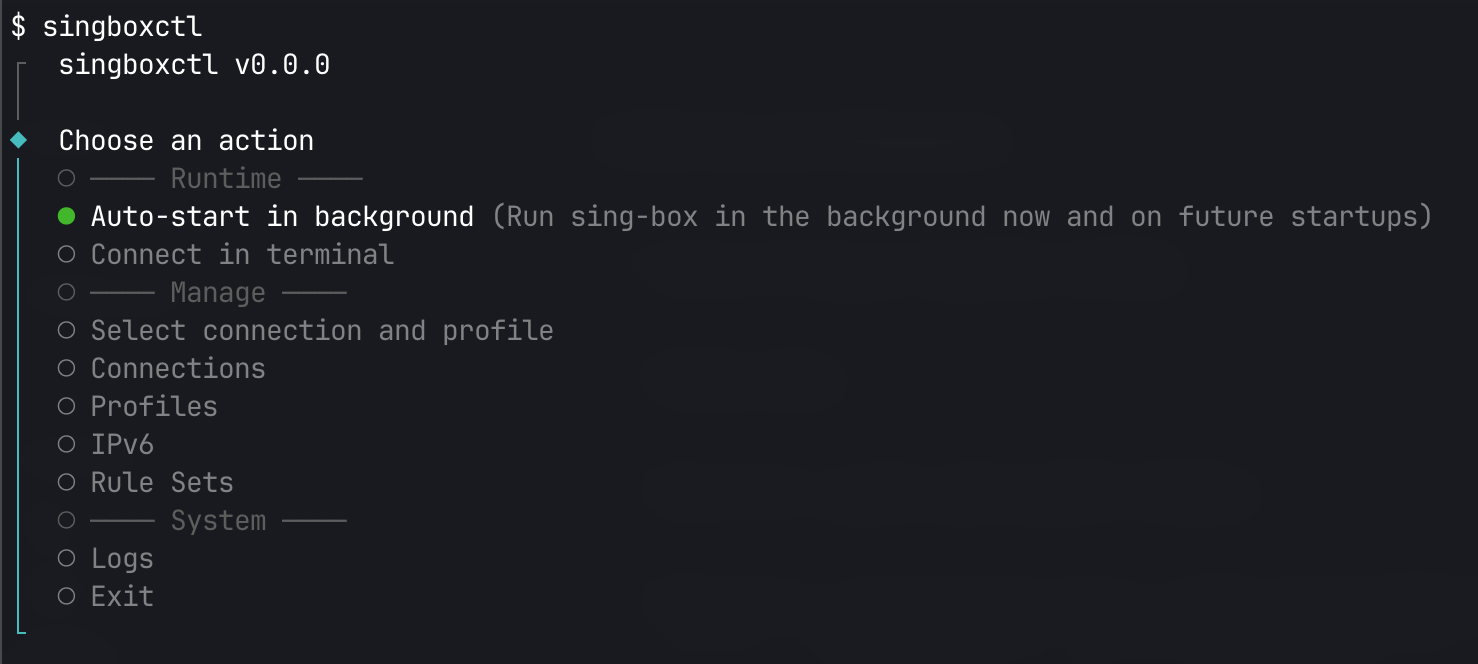
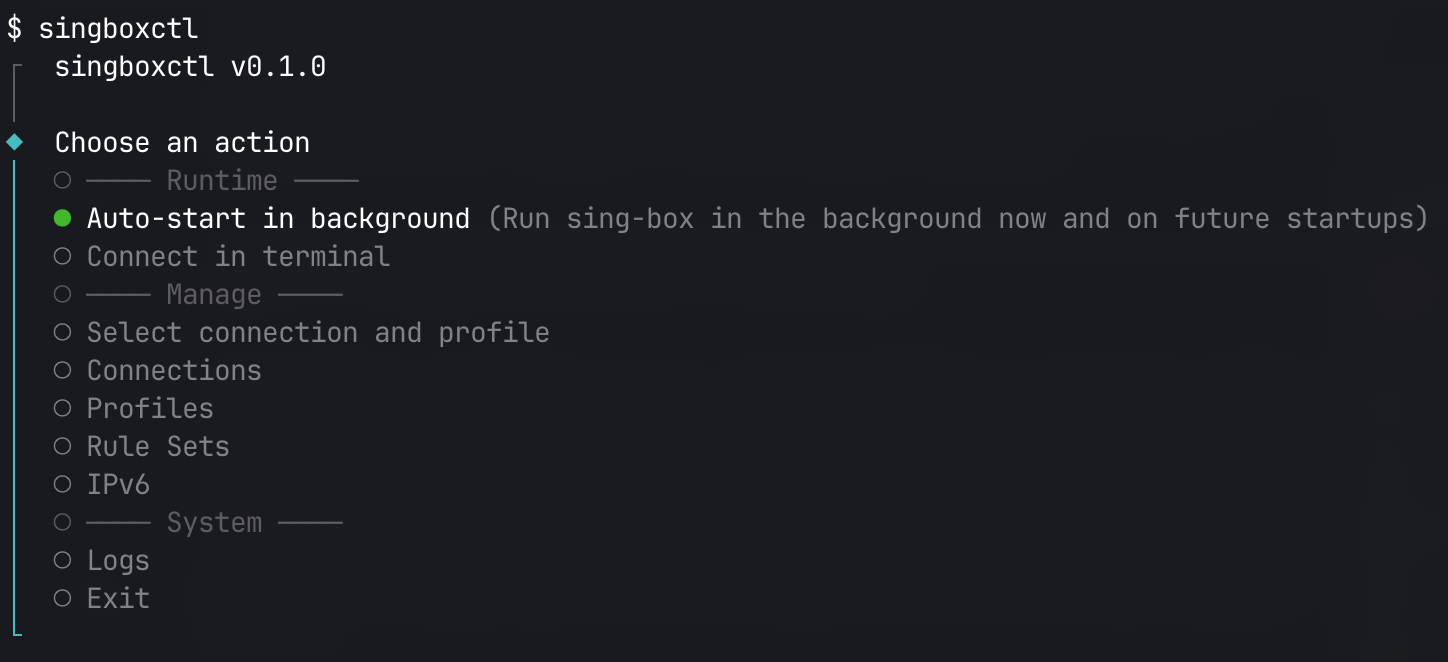
Reorder IPv6 after rule sets

Changed region(s): [[0.0, 0.0, 0.9945, 0.9668]]

diff --git a/src/tui.ts b/src/tui.ts
@@ -77,14 +77,14 @@ export async function runTui(context: AppContext): Promise<void> {
             hint: "Manage routing profiles"
           },
           {
-            value: "ipv6",
-            label: "IPv6",
-            hint: ipv6Enabled ? "Enabled for TUN inbounds" : "Disabled for TUN inbounds"
-          },
-          {
             value: "rule-sets",
             label: "Rule Sets",
             hint: "Manage named sing-box rule groups"
+          },
+          {
+            value: "ipv6",
+            label: "IPv6",
+            hint: ipv6Enabled ? "Enabled for TUN inbounds" : "Disabled for TUN inbounds"
           },
           {
             value: "section-system",

diff --git a/.changeset/calm-crabs-tickle.md b/.changeset/calm-crabs-tickle.md
@@ -1,0 +1,5 @@
+---
+"singboxctl": patch
+---
+
+Move the IPv6 menu item below Rule Sets in the root TUI menu for a clearer management section order.